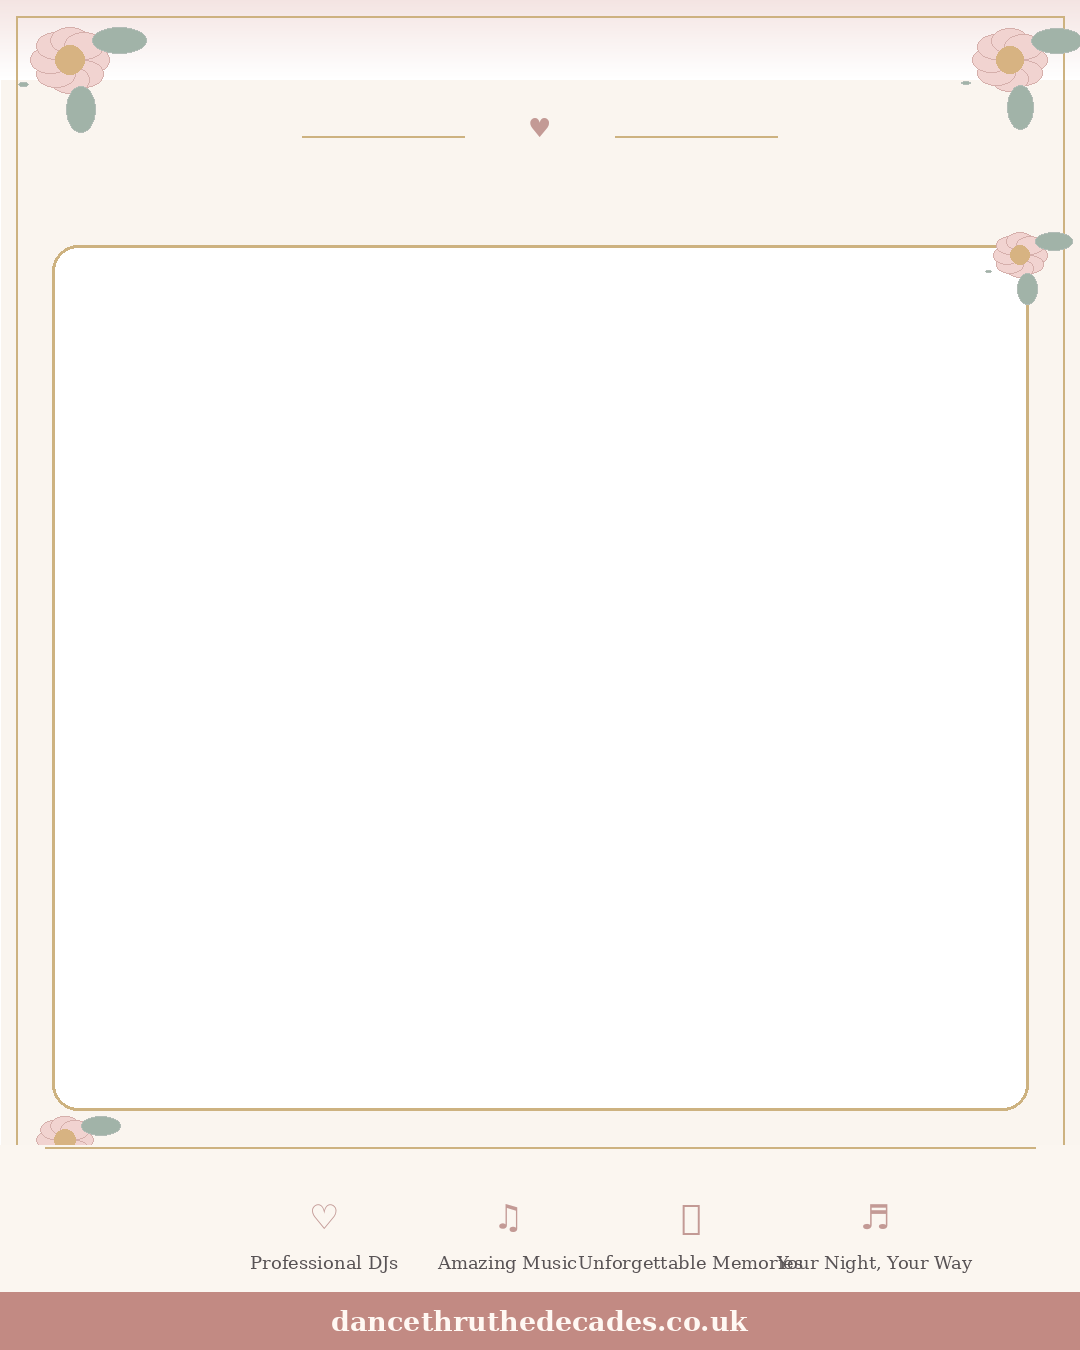
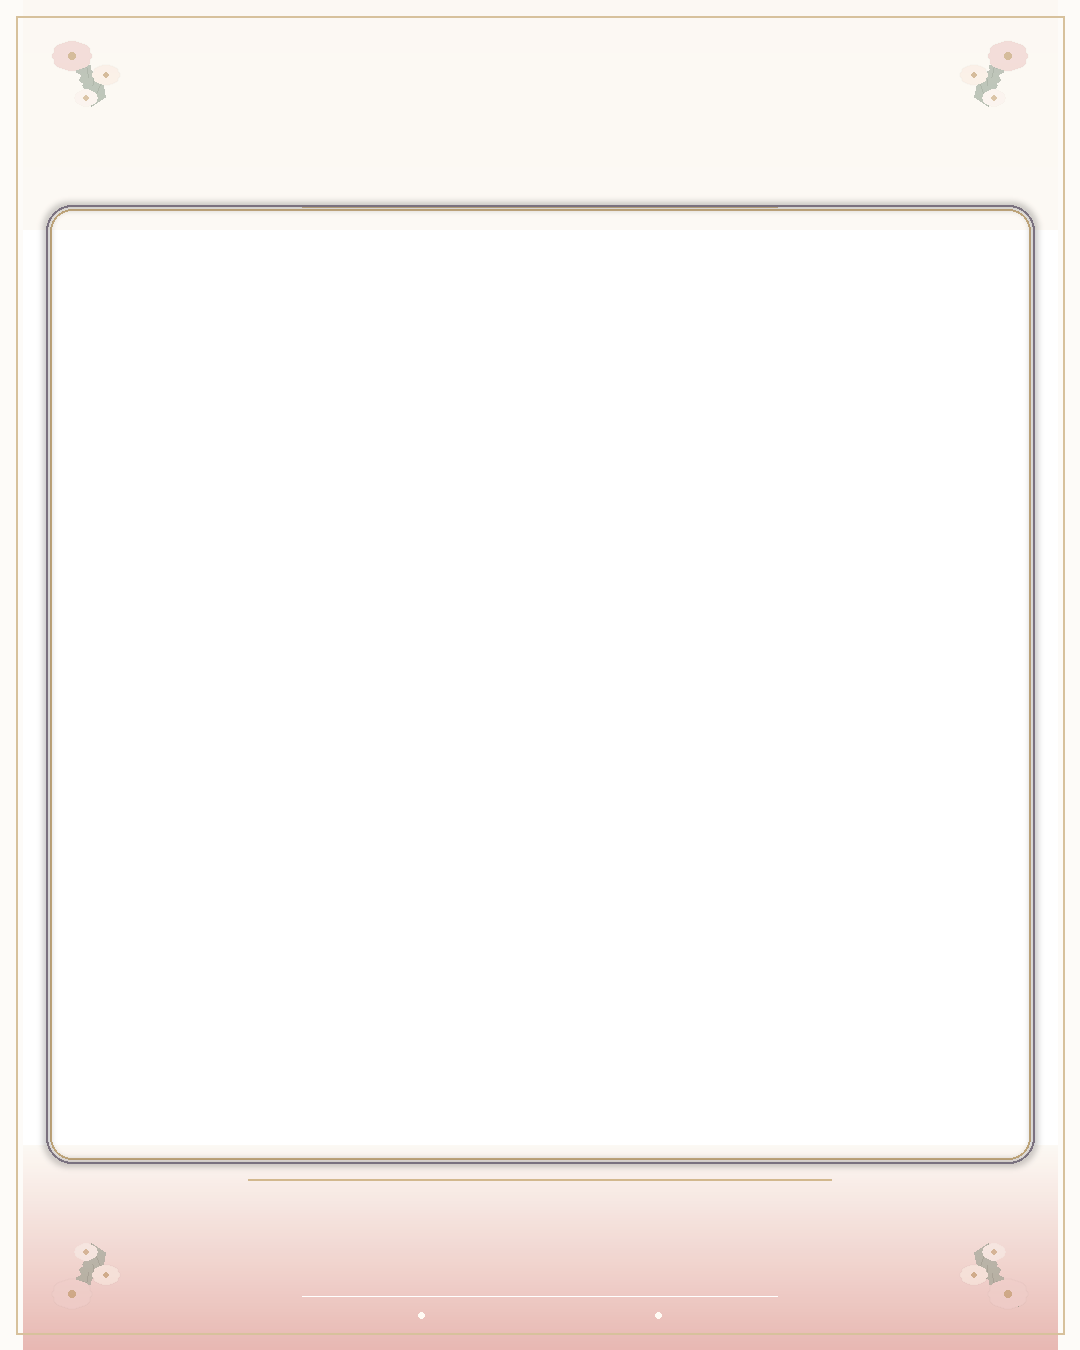
Git summary: Polish wedding photo overlay for uploaded event photos.
Git details:
- Reworked the wedding overlay assets to use cleaner ivory, blush and gold styling.
- Reduced overlay intrusion into the uploaded photo area.
- Removed the childish/simple floral look and replaced it with subtler corner decoration.
- Added cleaner wedding typography placement for event name, date, venue and thank-you text.
- Added the website address into the wedding overlay footer for marketing.
- Kept the uploaded photo itself unchanged underneath the transparent overlay.

Changed region(s): [[0.0, 0.1244, 1.0, 1.0], [0.8861, 0.0, 1.0, 0.0933], [0.0306, 0.0, 0.1528, 0.0933]]

diff --git a/includes/photo-uploads.php b/includes/photo-uploads.php
@@ -485,6 +485,27 @@ function photo_imagick_font_path($bold = false) {
 }
 
 
+
+function photo_imagick_serif_font_path($bold = false) {
+    $candidates = $bold
+        ? [
+            '/usr/share/fonts/truetype/dejavu/DejaVuSerif-Bold.ttf',
+            '/usr/share/fonts/dejavu/DejaVuSerif-Bold.ttf',
+            '/usr/share/fonts/TTF/DejaVuSerif-Bold.ttf',
+        ]
+        : [
+            '/usr/share/fonts/truetype/dejavu/DejaVuSerif.ttf',
+            '/usr/share/fonts/dejavu/DejaVuSerif.ttf',
+            '/usr/share/fonts/TTF/DejaVuSerif.ttf',
+        ];
+    foreach ($candidates as $path) {
+        if (is_file($path)) {
+            return $path;
+        }
+    }
+    return $bold ? 'DejaVu-Serif-Bold' : 'DejaVu-Serif';
+}
+
 function photo_imagick_set_font_safe(ImagickDraw $draw, $fontPath) {
     $fontPath = trim((string)$fontPath);
     if ($fontPath === '') {
@@ -700,14 +721,16 @@ function photo_render_framed_image($sourcePath, $destPath, $event, $orientation 
         } catch (Throwable $e) {
             // Ignore trim failures and use the source as-is.
         }
-        $logoSize = $isWedding ? ($landscape ? 150 : 168) : ($landscape ? 116 : 116);
+        $logoSize = $isWedding ? ($landscape ? 126 : 138) : ($landscape ? 116 : 116);
         $logo->resizeImage($logoSize, $logoSize, Imagick::FILTER_LANCZOS, 1, true);
-        $logoX = $isWedding ? ($landscape ? 42 : 44) : ($landscape ? 30 : 30);
-        $logoY = $isWedding ? ($landscape ? 992 : 1038) : ($landscape ? 30 : 30);
+        $logoX = $isWedding ? ($landscape ? 44 : 42) : ($landscape ? 30 : 30);
+        $logoY = $isWedding ? ($landscape ? 1016 : 1076) : ($landscape ? 30 : 30);
         $canvas->compositeImage($logo, Imagick::COMPOSITE_OVER, $logoX, $logoY);
 
         $fontBold = photo_imagick_font_path(true);
         $fontRegular = photo_imagick_font_path(false);
+        $fontWeddingTitle = photo_imagick_serif_font_path(false);
+        $fontWeddingTitleBold = photo_imagick_serif_font_path(true);
 
         $eventName = trim((string)($event['event_name'] ?? $event['name'] ?? 'Dance Thru The Decades'));
         if ($eventName === '') { $eventName = 'Dance Thru The Decades'; }
@@ -723,15 +746,16 @@ function photo_render_framed_image($sourcePath, $destPath, $event, $orientation 
 
         if ($landscape) {
             if ($isWedding) {
-                photo_imagick_draw_text($canvas, $headlineText, 800, 52, $fontBold, 24, $weddingInk, null, 0, 960, Imagick::ALIGN_CENTER);
-                $titleSize = photo_imagick_fit_font_size($canvas, $eventName, $fontRegular, 58, 980, 34);
-                photo_imagick_draw_text($canvas, $eventName, 800, 118, $fontRegular, $titleSize, $weddingRose, null, 0, 980, Imagick::ALIGN_CENTER);
-                photo_imagick_draw_text($canvas, ($dateLine !== '' ? $dateLine : 'TBA'), 800, 164, $fontBold, 24, $weddingInk, null, 0, 520, Imagick::ALIGN_CENTER);
+                photo_imagick_draw_text($canvas, $headlineText, 800, 44, $fontBold, 22, $weddingInk, null, 0, 960, Imagick::ALIGN_CENTER);
+                $titleSize = photo_imagick_fit_font_size($canvas, $eventName, $fontWeddingTitle, 54, 980, 32);
+                photo_imagick_draw_text($canvas, $eventName, 800, 99, $fontWeddingTitle, $titleSize, $weddingRose, null, 0, 980, Imagick::ALIGN_CENTER);
+                photo_imagick_draw_text($canvas, ($dateLine !== '' ? $dateLine : 'TBA'), 800, 135, $fontWeddingTitleBold, 22, $weddingInk, null, 0, 620, Imagick::ALIGN_CENTER);
                 if ($venueLine !== '') {
-                    photo_imagick_draw_text($canvas, $venueLine, 800, 194, $fontBold, 18, $weddingInk, null, 0, 660, Imagick::ALIGN_CENTER);
+                    photo_imagick_draw_text($canvas, $venueLine, 800, 163, $fontBold, 16, $weddingInk, null, 0, 720, Imagick::ALIGN_CENTER);
                 }
-                photo_imagick_draw_text($canvas, $thankYouText, 800, 1040, $fontRegular, 32, $weddingRose, null, 0, 820, Imagick::ALIGN_CENTER);
-                photo_imagick_draw_text($canvas, strtoupper($taglineText), 800, 1084, $fontBold, 16, $weddingInk, null, 0, 820, Imagick::ALIGN_CENTER);
+                photo_imagick_draw_text($canvas, $thankYouText, 800, 1054, $fontWeddingTitle, 30, $weddingRose, null, 0, 820, Imagick::ALIGN_CENTER);
+                photo_imagick_draw_text($canvas, strtoupper($taglineText), 800, 1098, $fontBold, 15, $weddingInk, null, 0, 860, Imagick::ALIGN_CENTER);
+                photo_imagick_draw_text($canvas, $siteUrlText, 800, 1171, $fontWeddingTitleBold, 28, '#ffffff', null, 0, 860, Imagick::ALIGN_CENTER);
             }
             $rightInset = 86;
             $pillGap = 14;
@@ -774,15 +798,16 @@ function photo_render_framed_image($sourcePath, $destPath, $event, $orientation 
             if (!$isWedding) { photo_imagick_draw_text($canvas, '60s  •  70s  •  80s  •  90s  •  00s', 750, 1148, $fontBold, 17, '#ffcf40', null, 0, 0, Imagick::ALIGN_CENTER); }
         } else {
             if ($isWedding) {
-                photo_imagick_draw_text($canvas, $headlineText, 540, 62, $fontBold, 22, $weddingInk, null, 0, 760, Imagick::ALIGN_CENTER);
-                $titleSize = photo_imagick_fit_font_size($canvas, $eventName, $fontRegular, 56, 840, 32);
-                photo_imagick_draw_text($canvas, $eventName, 540, 135, $fontRegular, $titleSize, $weddingRose, null, 0, 840, Imagick::ALIGN_CENTER);
-                photo_imagick_draw_text($canvas, ($dateLine !== '' ? $dateLine : 'TBA'), 540, 184, $fontBold, 24, $weddingInk, null, 0, 500, Imagick::ALIGN_CENTER);
+                photo_imagick_draw_text($canvas, $headlineText, 540, 54, $fontBold, 21, $weddingInk, null, 0, 760, Imagick::ALIGN_CENTER);
+                $titleSize = photo_imagick_fit_font_size($canvas, $eventName, $fontWeddingTitle, 54, 835, 30);
+                photo_imagick_draw_text($canvas, $eventName, 540, 121, $fontWeddingTitle, $titleSize, $weddingRose, null, 0, 835, Imagick::ALIGN_CENTER);
+                photo_imagick_draw_text($canvas, ($dateLine !== '' ? $dateLine : 'TBA'), 540, 165, $fontWeddingTitleBold, 22, $weddingInk, null, 0, 570, Imagick::ALIGN_CENTER);
                 if ($venueLine !== '') {
-                    photo_imagick_draw_text($canvas, $venueLine, 540, 216, $fontBold, 18, $weddingInk, null, 0, 620, Imagick::ALIGN_CENTER);
+                    photo_imagick_draw_text($canvas, $venueLine, 540, 194, $fontBold, 16, $weddingInk, null, 0, 650, Imagick::ALIGN_CENTER);
                 }
-                photo_imagick_draw_text($canvas, $thankYouText, 620, 1165, $fontRegular, 31, $weddingRose, null, 0, 720, Imagick::ALIGN_CENTER);
-                photo_imagick_draw_text($canvas, strtoupper($taglineText), 620, 1210, $fontBold, 14, $weddingInk, null, 0, 720, Imagick::ALIGN_CENTER);
+                photo_imagick_draw_text($canvas, $thankYouText, 620, 1173, $fontWeddingTitle, 30, $weddingRose, null, 0, 720, Imagick::ALIGN_CENTER);
+                photo_imagick_draw_text($canvas, strtoupper($taglineText), 620, 1216, $fontBold, 14, $weddingInk, null, 0, 720, Imagick::ALIGN_CENTER);
+                photo_imagick_draw_text($canvas, $siteUrlText, 620, 1322, $fontWeddingTitleBold, 24, '#ffffff', null, 0, 720, Imagick::ALIGN_CENTER);
             }
             $rightInset = 72;
             $pillGap = 12;
